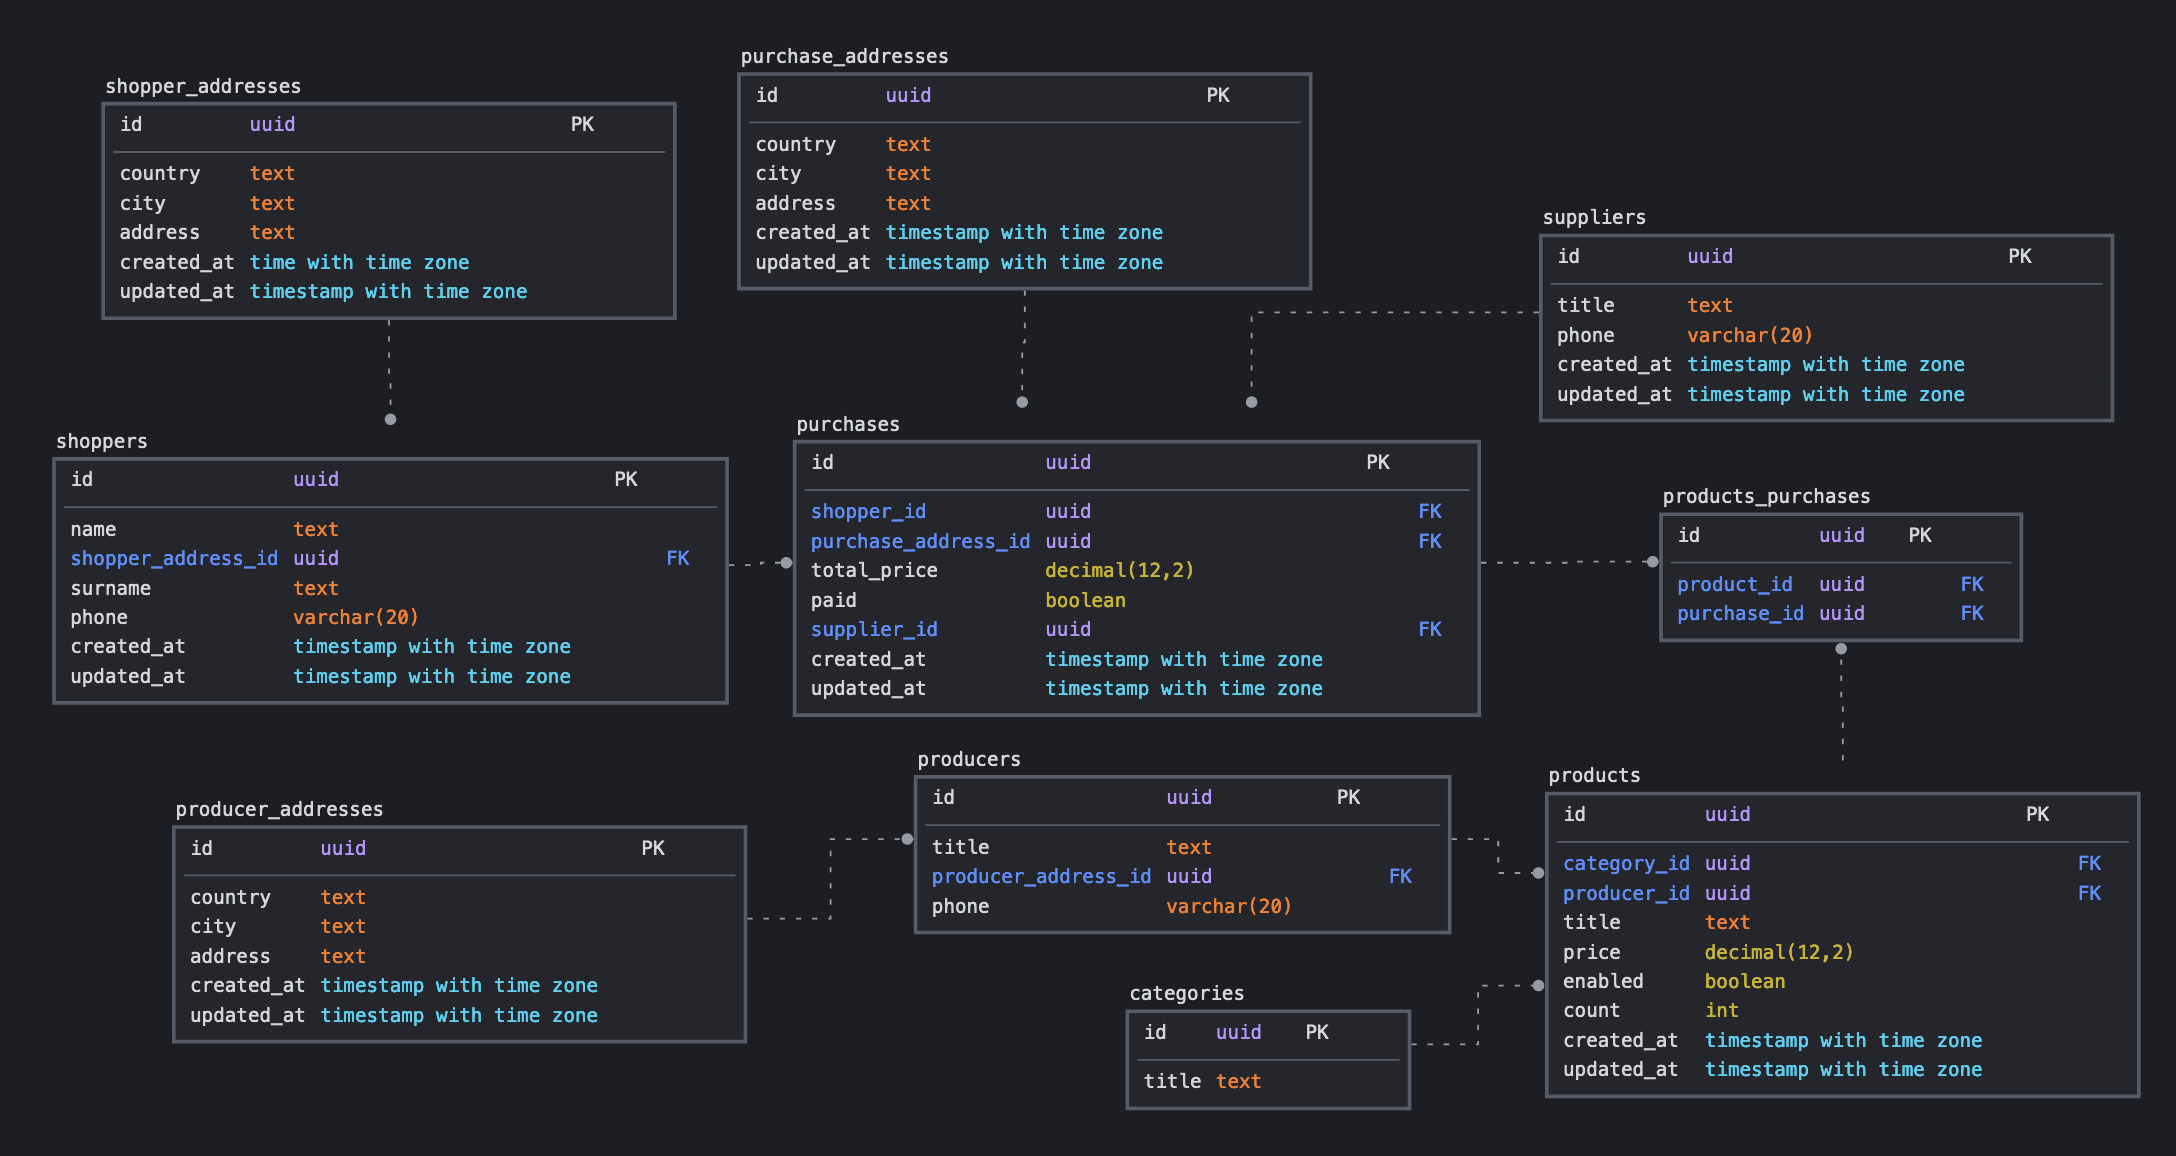
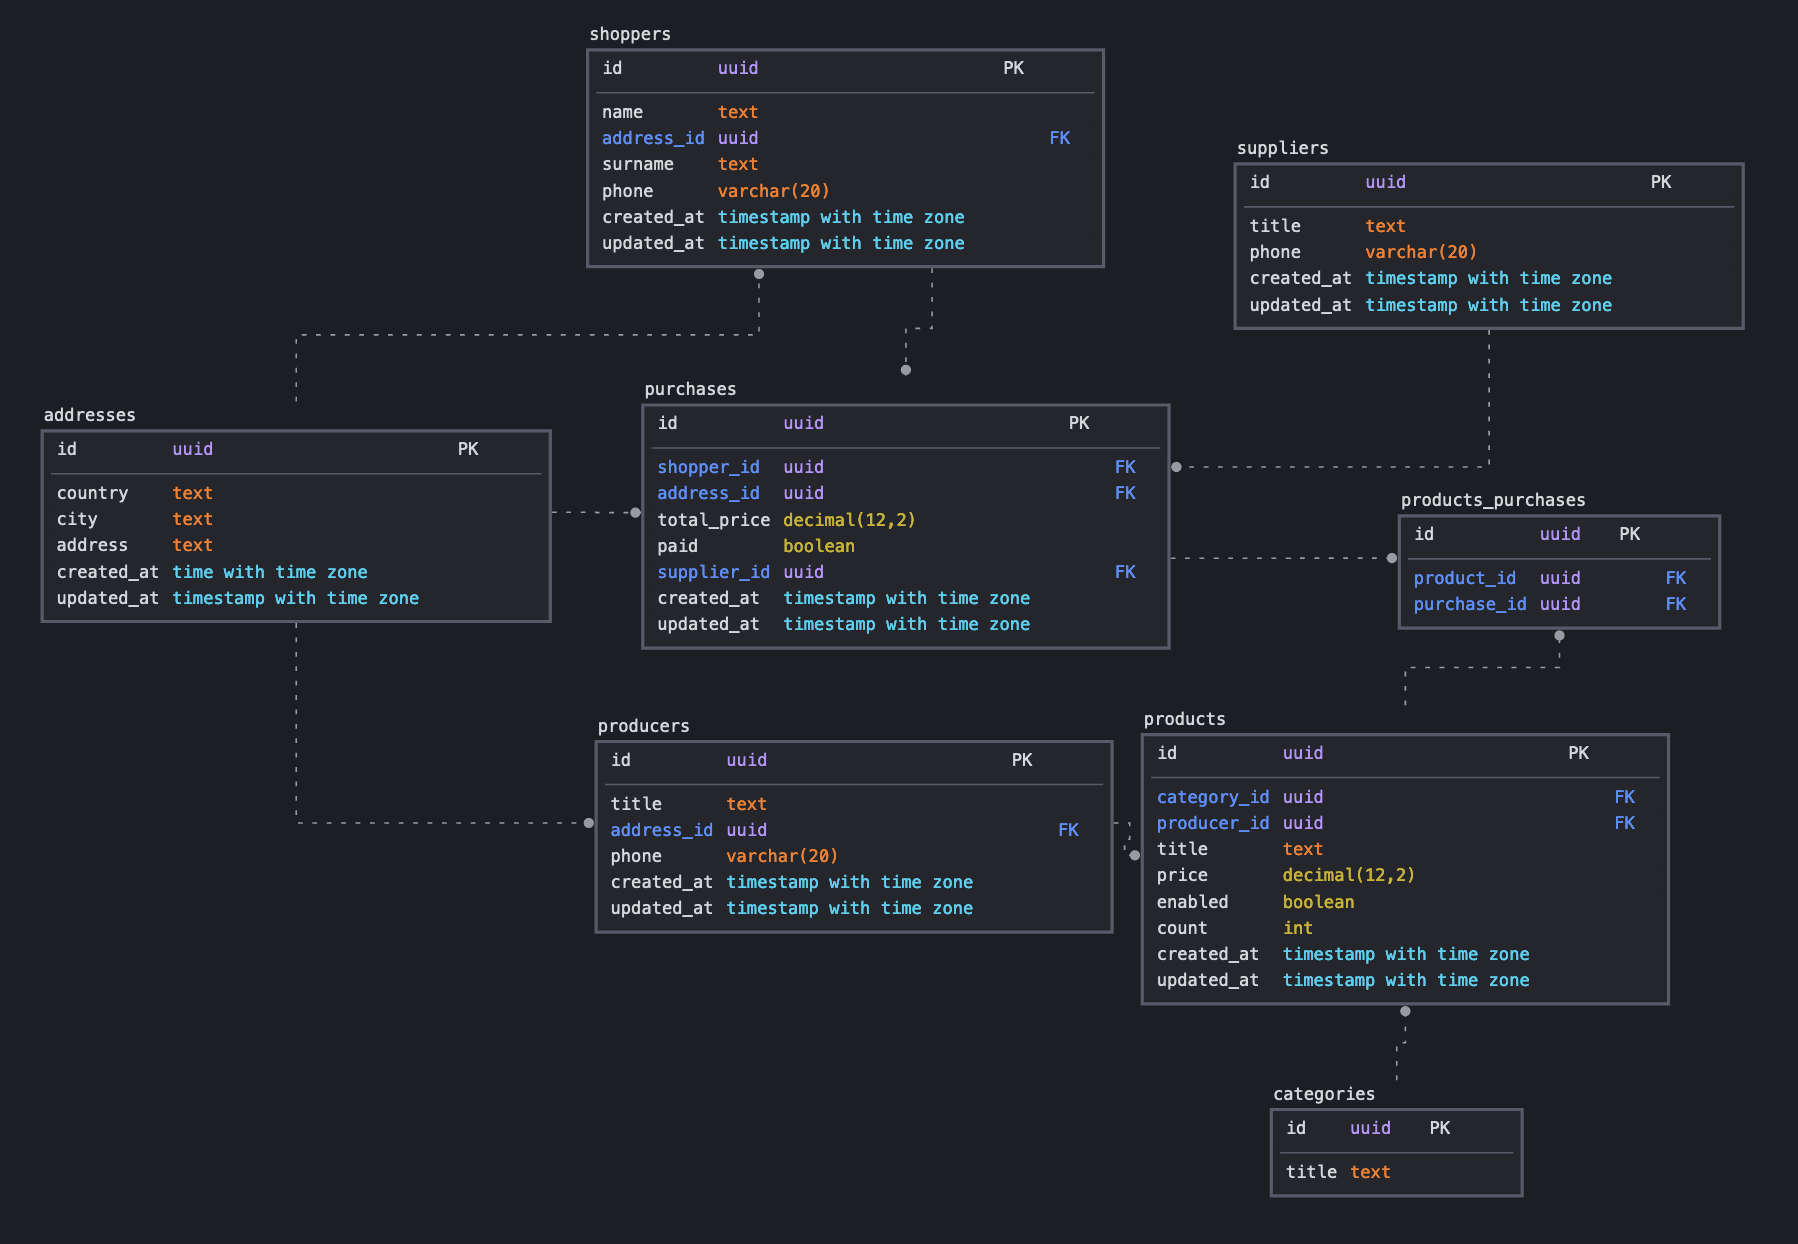
Change table address in table. Finish document tables

diff --git a/hw01/README.md b/hw01/README.md
@@ -26,9 +26,7 @@
 
 ### Документация
 
----
-
-Основные таблицы
+## Таблицы
 
 - shoppers - Покупатели
   - id - Уникальный идентификатор, форматом UUID
@@ -38,32 +36,44 @@
   - phone - Телефон покупателя
   - created_at - Дата создания
   - updated_at - Дата создания или изменения
-- purchases
+- purchases - Покупки
   - id - Уникальный идентификатор, форматом UUID
-- suppliers
+  - shopper_id - Ссылка на Покупателей
+  - address_id - Ссылка на Адресс
+  - supplier_id - Ссылка на поставщика, который отвезёт продукты
+  - total_price - Цена за все продукты
+  - paid - булевое значение, заплачено или нет
+  - created_at - Дата создания
+  - updated_at - Дата создания или изменения
+- suppliers - Поставщики
   - id - Уникальный идентификатор, форматом UUID
-- products_purchases
+  - title - Название компании, которая поставляет
+  - phone - Телефон доставщика
+  - created_at - Дата создания
+  - updated_at - Дата создания или изменения
+- products_purchases - Таблица которая говорит какие покупки, к каким продуктам относится
   - id - Уникальный идентификатор, форматом UUID
-- products
+  - product_id - Ссылка на Продукт
+  - purchase_id - Ссылка на Покупку
+- products - Продукты
   - id - Уникальный идентификатор, форматом UUID
-- categories
+  - category_id - Ссылка на котегорию продукта
+  - producer_id - Ссылка на Производителя продукта
+  - created_at - Дата создания
+  - updated_at - Дата создания или изменения
+- categories - Категории продуктов
   - id - Уникальный идентификатор, форматом UUID
-- producers
+  - title - Название категории
+- producers - Производители
   - id - Уникальный идентификатор, форматом UUID
-
----
-
-Следующие таблицы это аддреса, для других таблиц:
-
-- shopper_addresses (для таблицы shoppers)
-- purchase_addresses (для таблицы purchases)
-- producer_addresses (для таблицы pruducers)
-
-Эти таблицы содержат
-
-- id - Уникальный идентификатор, форматом UUID
-- country - Странна
-- city - Город
-- address - Адресс
-- created_at - Дата создания
-- updated_at - Дата создания или изменения
+  - address_id - Ссылка на аддресс производителя
+  - phone - Телефон производителя
+  - created_at - Дата создания
+  - updated_at - Дата создания или изменения
+- addresses (Аддреса)
+  - id - Уникальный идентификатор, форматом UUID
+  - country - Странна
+  - city - Город
+  - address - Адресс
+  - created_at - Дата создания
+  - updated_at - Дата создания или изменения
